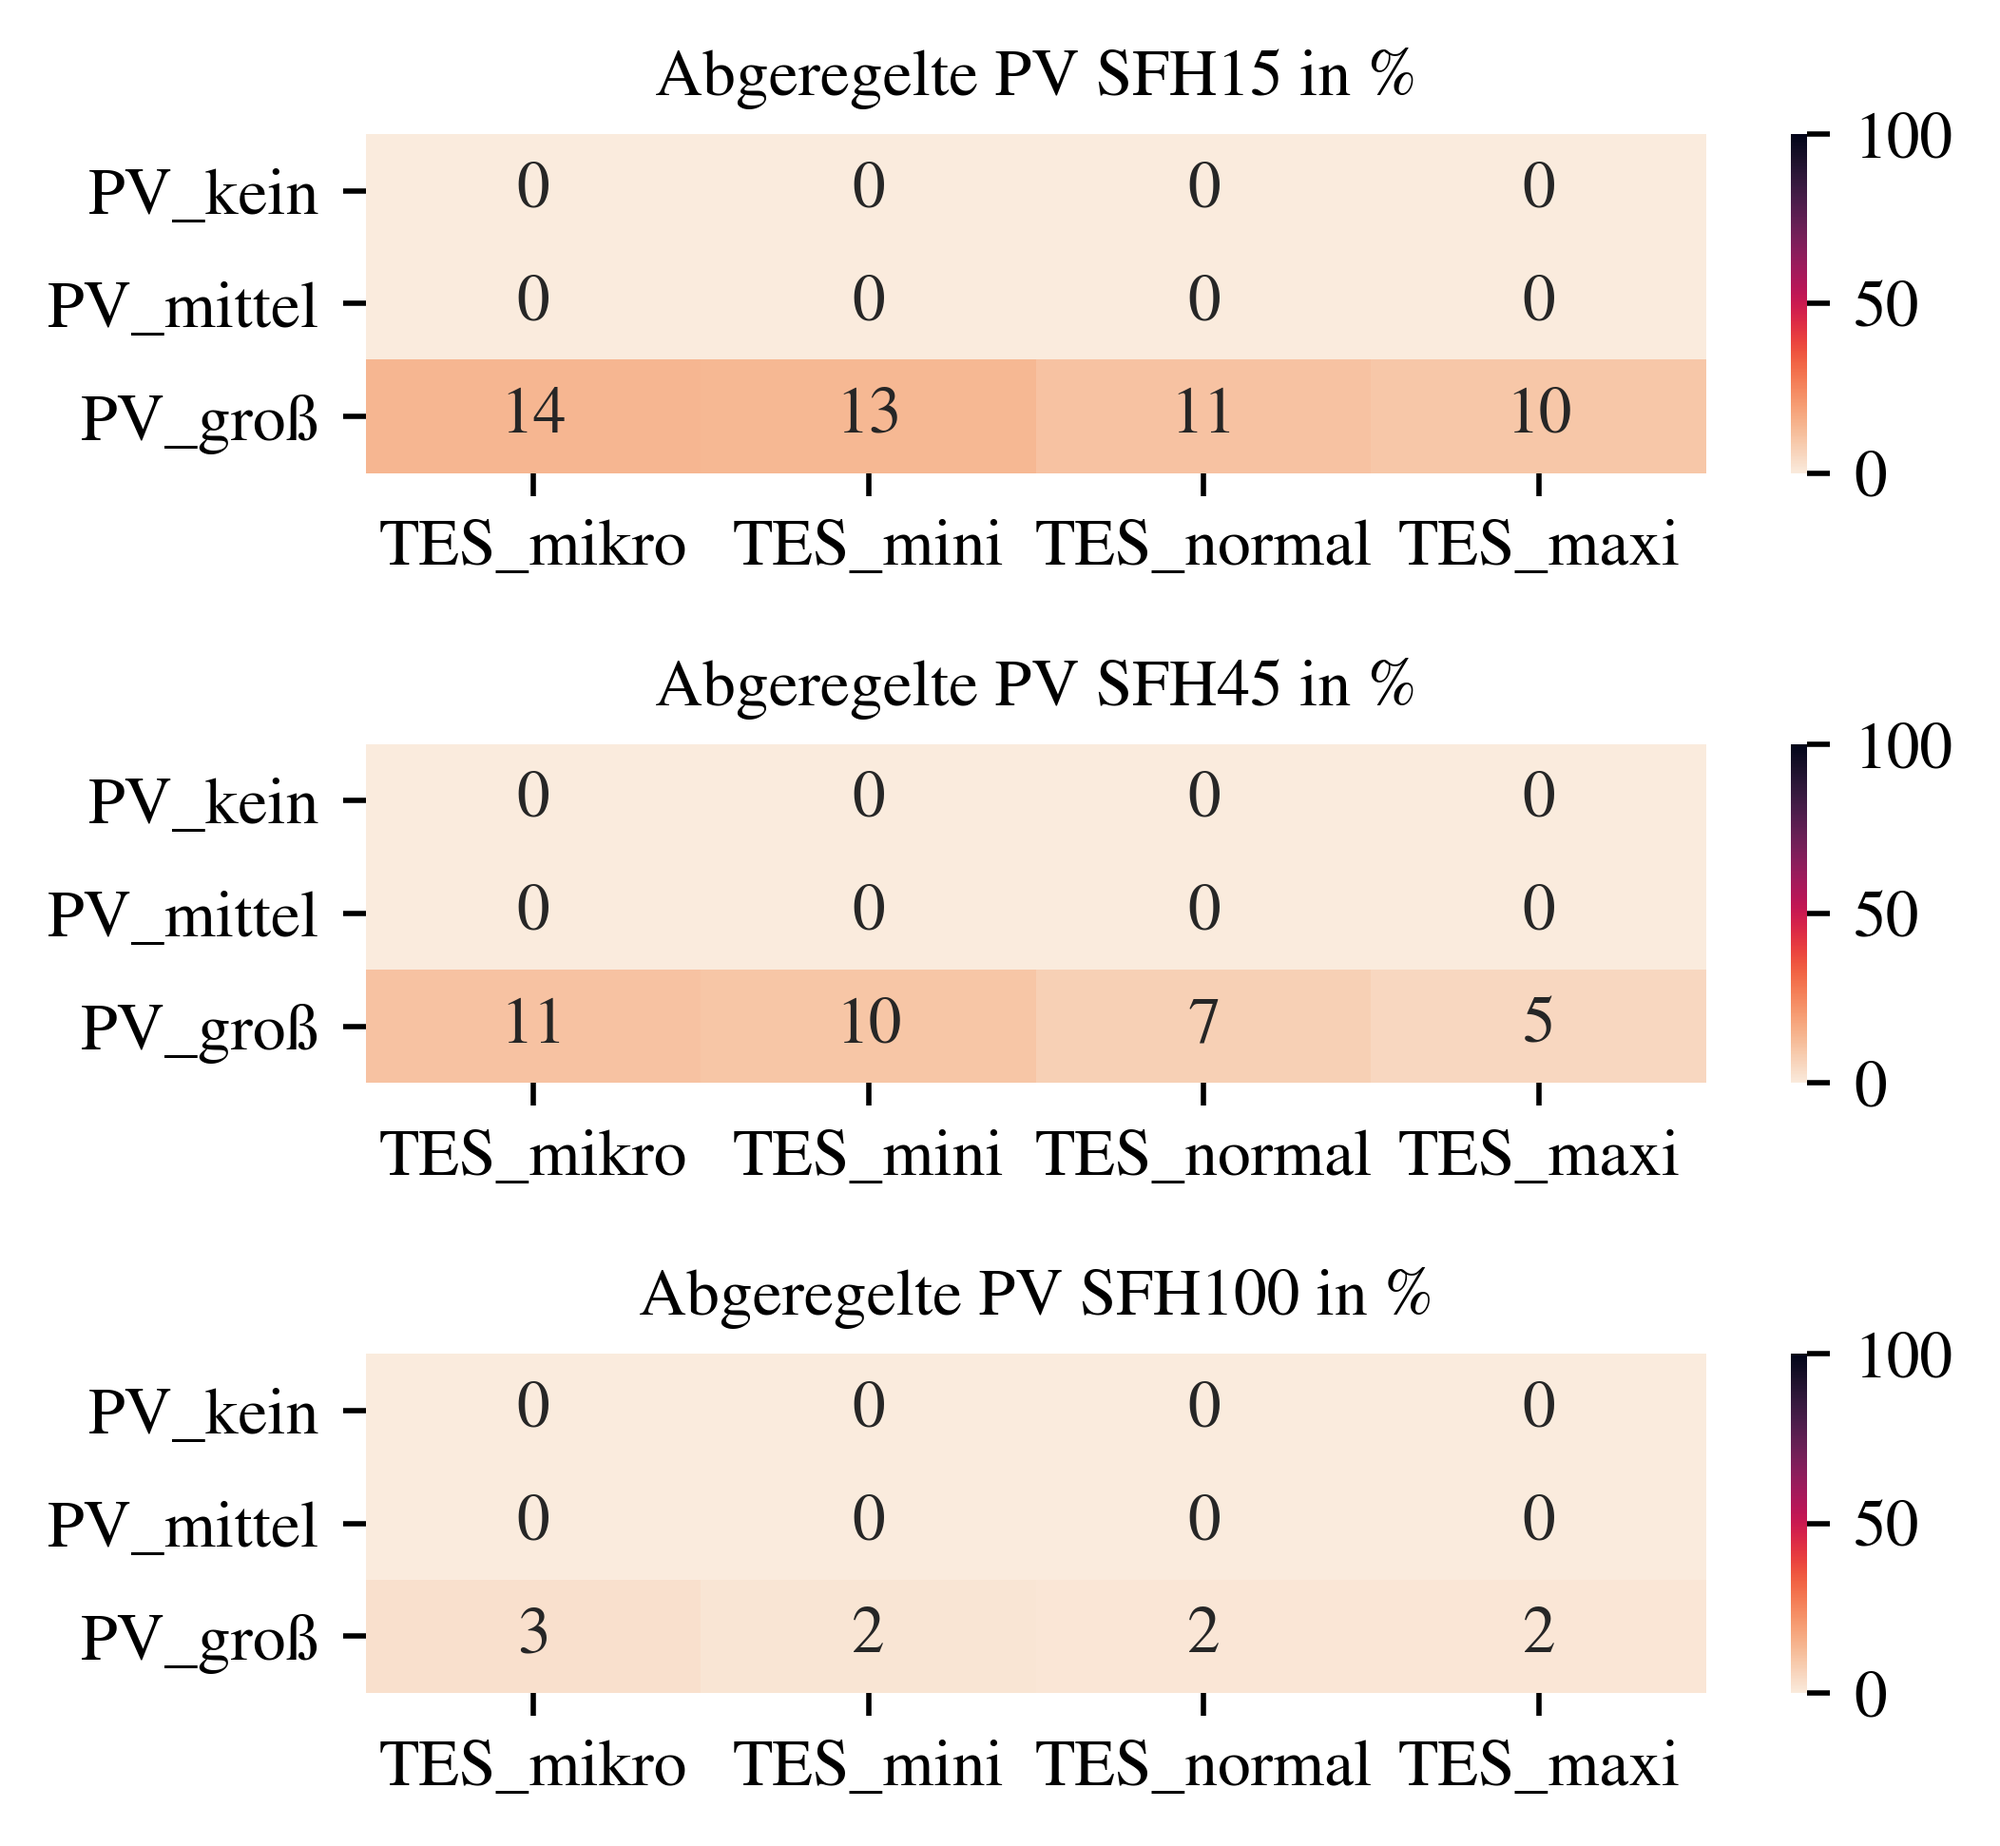
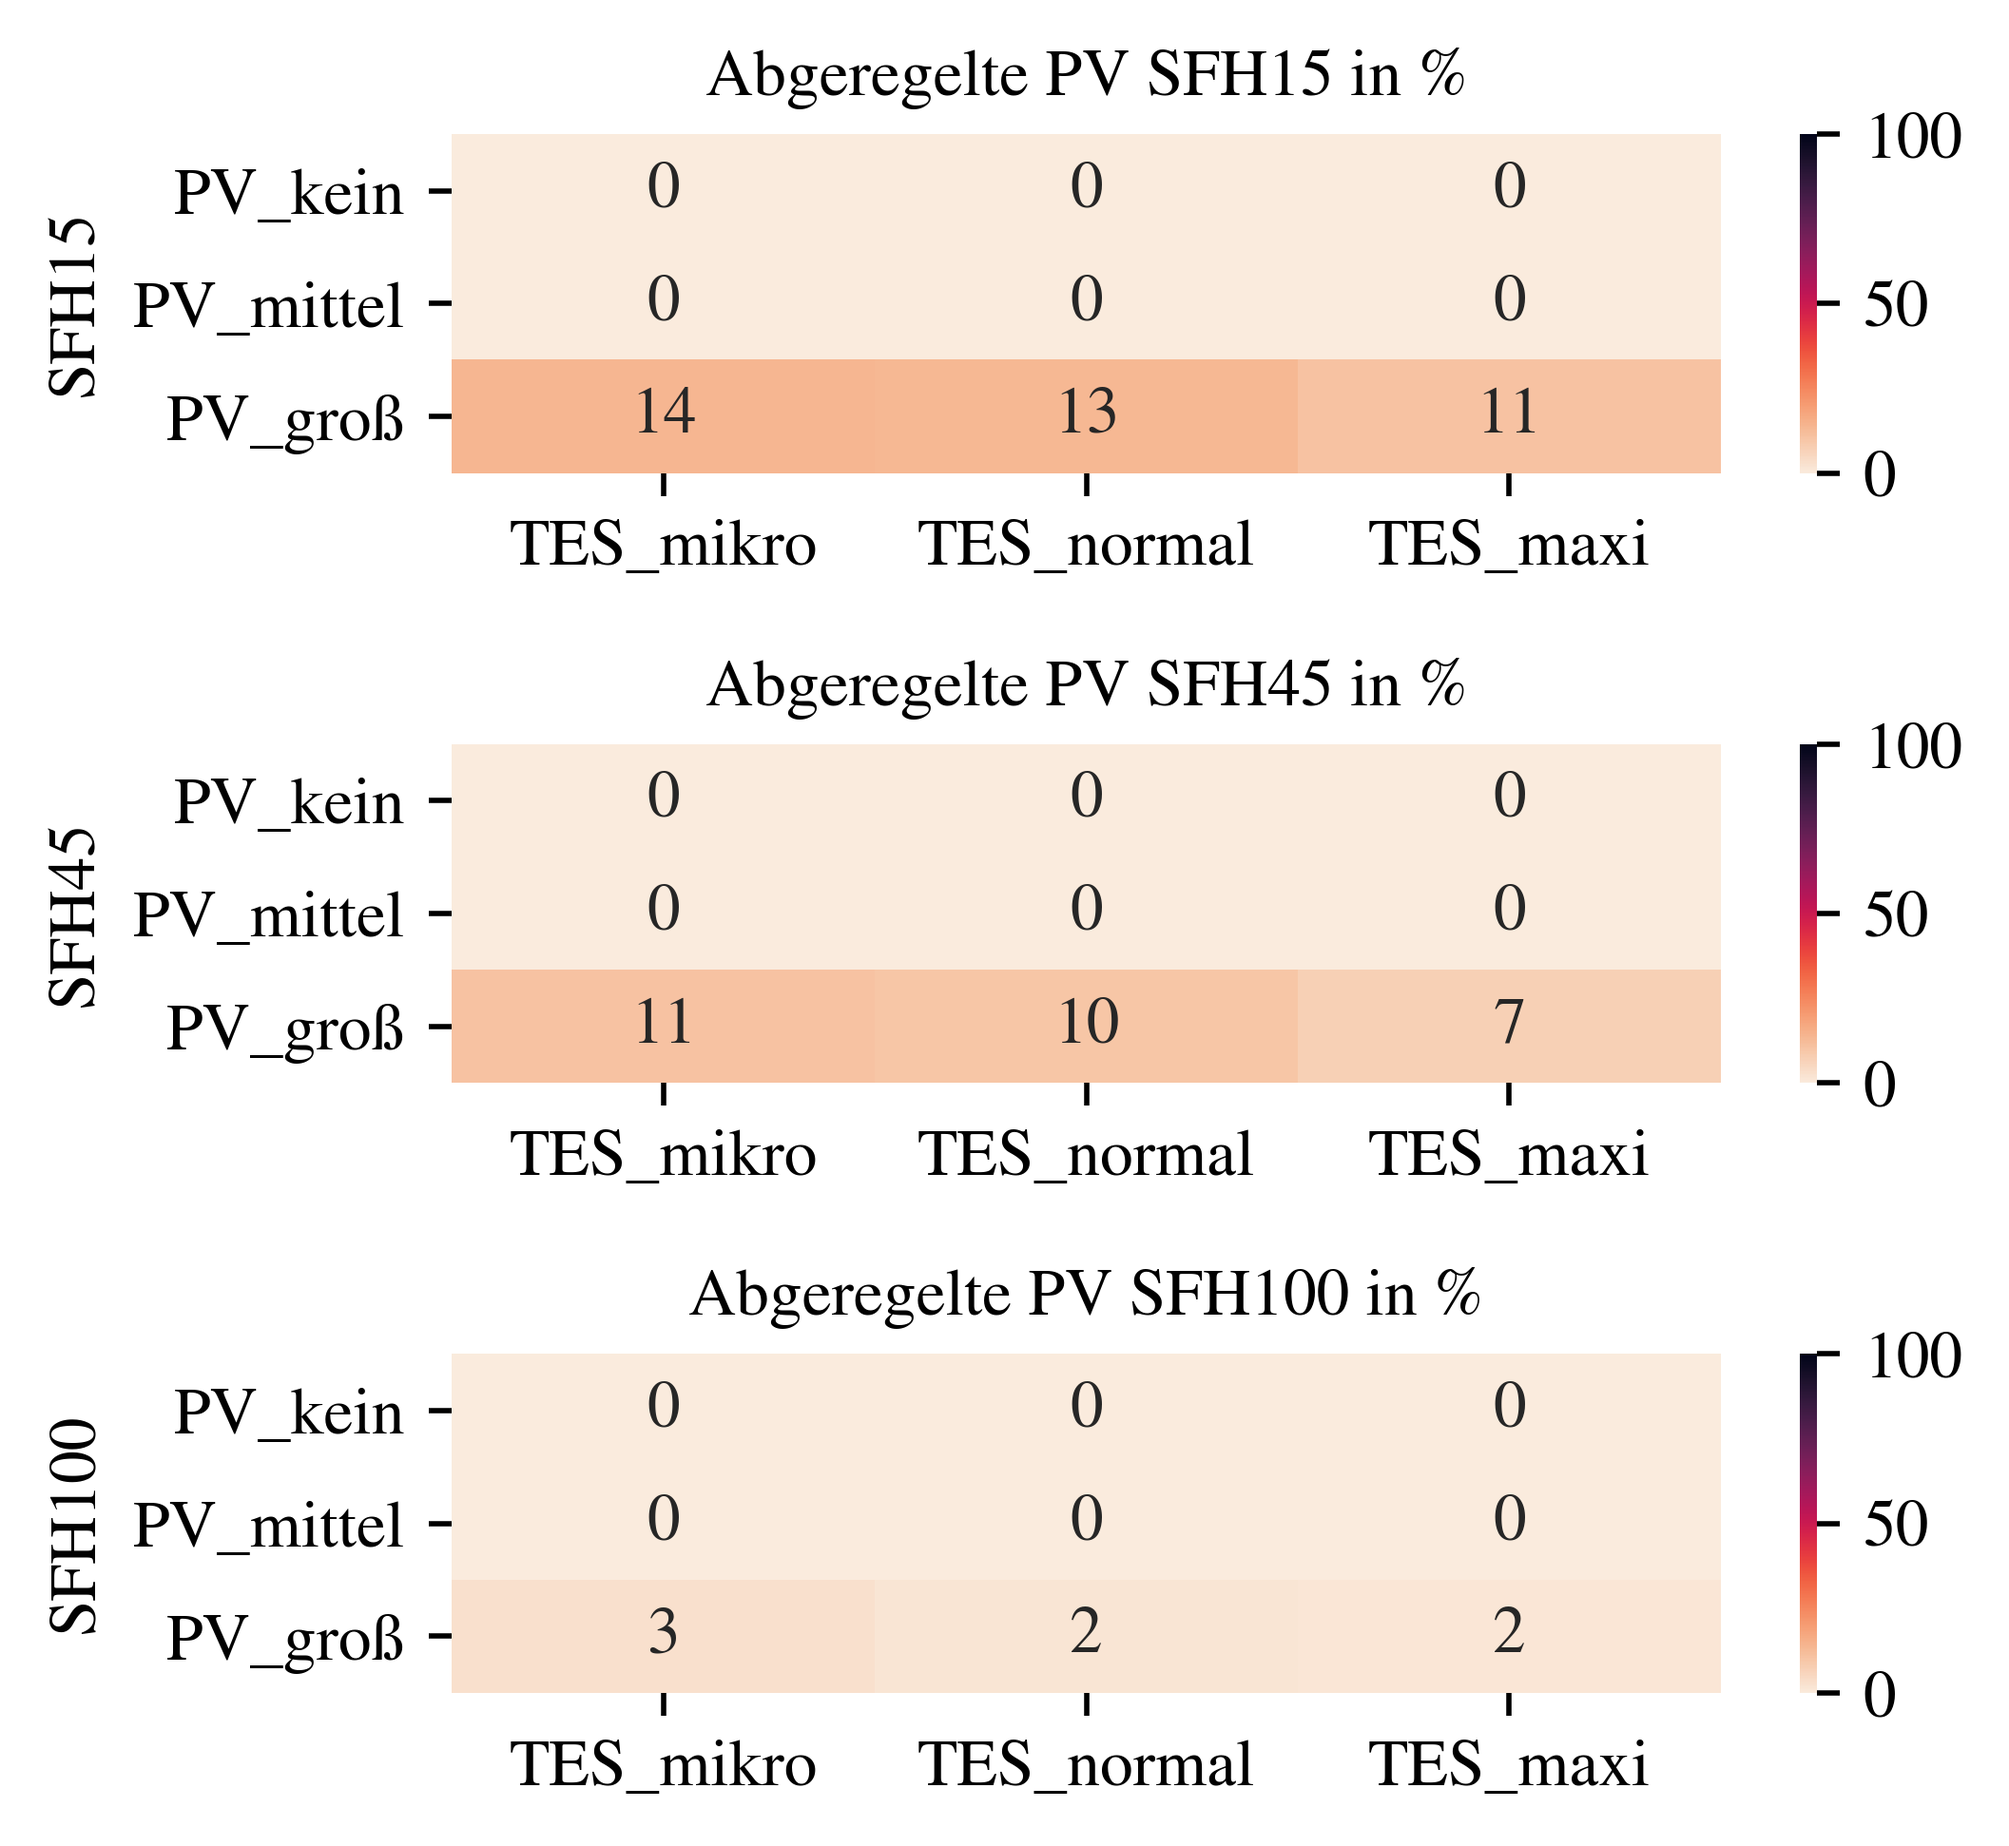
Final version with 3 TES but only one Building capacity 14kWh

diff --git a/src/tools/evaluation/Evaluation.py b/src/tools/evaluation/Evaluation.py
@@ -89,7 +89,7 @@ def calculate_outputdata(eva, scenarios, grid, save_fig_dir=None):
 
 def plot_heatmap_self_consumption_tes_to_pv(eva, scenario, net_name, save_fig_dir=None):
   pvs = ['PV_kein', 'PV_mittel', 'PV_groß']
-  tes = ['TES_mikro', 'TES_mini', 'TES_normal', 'TES_maxi']
+  tes = ['TES_mikro', 'TES_normal', 'TES_maxi']
   
   interp_sfh = {'A' : 'SFH15', 'B' : 'SFH45', 'C' : 'SFH100'}
   interp_pv  = {'0' : pvs[0], \
@@ -97,8 +97,7 @@ def plot_heatmap_self_consumption_tes_to_pv(eva, scenario, net_name, save_fig_di
                 '1' : pvs[2]}
   interp_tes = {'6' : tes[0], \
                 '7' : tes[1], \
-                '8' : tes[2], 
-                '9' : tes[3]}
+                '8' : tes[2] }
   
   df_sfh15 = pd.DataFrame(index=[pvs], columns=tes).fillna(0)
   df_sfh45 = pd.DataFrame(index=[pvs], columns=tes).fillna(0)
@@ -169,11 +168,11 @@ def plot_heatmap_self_consumption_tes_to_pv(eva, scenario, net_name, save_fig_di
   sns.heatmap(data=df_sfh45, vmax = vmax, vmin = vmin, cmap="rocket_r", annot=True, square=False, fmt=".0f", ax=axes[1])
   sns.heatmap(data=df_sfh100, vmax = vmax, vmin = vmin, cmap="rocket_r", annot=True, square=False, fmt=".0f", ax=axes[2])
   axes[0].set_title('Eigenverbrauchsgrad SFH15 in %')
-  axes[0].set(ylabel='', xlabel='')
+  axes[0].set(ylabel='SFH15', xlabel='')
   axes[1].set_title('Eigenverbrauchsgrad SFH45  in %')
-  axes[1].set(ylabel='', xlabel='')
+  axes[1].set(ylabel='SFH45', xlabel='')
   axes[2].set_title('Eigenverbrauchsgrad SFH100 in %')
-  axes[2].set(ylabel='', xlabel='')
+  axes[2].set(ylabel='SFH100', xlabel='')
   fig.tight_layout()
   
   if save_fig_dir is not None:
@@ -181,7 +180,7 @@ def plot_heatmap_self_consumption_tes_to_pv(eva, scenario, net_name, save_fig_di
 
 def plot_heatmap_self_sufficiency_tes_to_pv(eva, scenario, net_name, save_fig_dir=None):
   pvs = ['PV_kein', 'PV_mittel', 'PV_groß']
-  tes = ['TES_mikro', 'TES_mini', 'TES_normal', 'TES_maxi']
+  tes = ['TES_mikro', 'TES_normal', 'TES_maxi']
   
   interp_sfh = {'A' : 'SFH15', 'B' : 'SFH45', 'C' : 'SFH100'}
   interp_pv  = {'0' : pvs[0], \
@@ -189,8 +188,7 @@ def plot_heatmap_self_sufficiency_tes_to_pv(eva, scenario, net_name, save_fig_di
                 '1' : pvs[2]}
   interp_tes = {'6' : tes[0], \
                 '7' : tes[1], \
-                '8' : tes[2], 
-                '9' : tes[3]}
+                '8' : tes[2] }
   
   df_sfh15 = pd.DataFrame(index=[pvs], columns=tes).fillna(0)
   df_sfh45 = pd.DataFrame(index=[pvs], columns=tes).fillna(0)
@@ -265,11 +263,11 @@ def plot_heatmap_self_sufficiency_tes_to_pv(eva, scenario, net_name, save_fig_di
   sns.heatmap(data=df_sfh45, vmax = vmax, vmin = vmin, cmap="rocket_r", annot=True, square=False, fmt=".0f", ax=axes[1])
   sns.heatmap(data=df_sfh100, vmax = vmax, vmin = vmin, cmap="rocket_r", annot=True, square=False, fmt=".0f", ax=axes[2])
   axes[0].set_title('Autarkiegrad SFH15 in %')
-  axes[0].set(ylabel='', xlabel='')
+  axes[0].set(ylabel='SFH15', xlabel='')
   axes[1].set_title('Autarkiegrad SFH45  in %')
-  axes[1].set(ylabel='', xlabel='')
+  axes[1].set(ylabel='SFH45', xlabel='')
   axes[2].set_title('Autarkiegrad SFH100 in %')
-  axes[2].set(ylabel='', xlabel='')
+  axes[2].set(ylabel='SFH100', xlabel='')
   fig.tight_layout()
   
   if save_fig_dir is not None:
@@ -277,7 +275,7 @@ def plot_heatmap_self_sufficiency_tes_to_pv(eva, scenario, net_name, save_fig_di
 
 def plot_heatmap_curtailed_pv_tes_to_pv(eva, scenario, net_name, save_fig_dir=None):
   pvs = ['PV_kein', 'PV_mittel', 'PV_groß']
-  tes = ['TES_mikro', 'TES_mini', 'TES_normal', 'TES_maxi']
+  tes = ['TES_mikro', 'TES_normal', 'TES_maxi']
   
   interp_sfh = {'A' : 'SFH15', 'B' : 'SFH45', 'C' : 'SFH100'}
   interp_pv  = {'0' : pvs[0], \
@@ -285,8 +283,7 @@ def plot_heatmap_curtailed_pv_tes_to_pv(eva, scenario, net_name, save_fig_dir=No
                 '1' : pvs[2]}
   interp_tes = {'6' : tes[0], \
                 '7' : tes[1], \
-                '8' : tes[2], 
-                '9' : tes[3]}
+                '8' : tes[2] }
         
   df_sfh15 = pd.DataFrame(index=[pvs], columns=tes).fillna(0)
   df_sfh45 = pd.DataFrame(index=[pvs], columns=tes).fillna(0)
@@ -344,11 +341,11 @@ def plot_heatmap_curtailed_pv_tes_to_pv(eva, scenario, net_name, save_fig_dir=No
   sns.heatmap(data=df_sfh45, vmax = vmax, vmin = vmin, cmap="rocket_r", annot=True, square=False, fmt=".0f", ax=axes[1])
   sns.heatmap(data=df_sfh100, vmax = vmax, vmin = vmin, cmap="rocket_r", annot=True, square=False, fmt=".0f", ax=axes[2])
   axes[0].set_title('Abgeregelte PV SFH15 in %')
-  axes[0].set(ylabel='', xlabel='')
+  axes[0].set(ylabel='SFH15', xlabel='')
   axes[1].set_title('Abgeregelte PV SFH45 in %')
-  axes[1].set(ylabel='', xlabel='')
+  axes[1].set(ylabel='SFH45', xlabel='')
   axes[2].set_title('Abgeregelte PV SFH100 in %')
-  axes[2].set(ylabel='', xlabel='')
+  axes[2].set(ylabel='SFH100', xlabel='')
   fig.tight_layout()
   
   if save_fig_dir is not None:
@@ -356,7 +353,7 @@ def plot_heatmap_curtailed_pv_tes_to_pv(eva, scenario, net_name, save_fig_dir=No
 
 def plot_heatmap_curtailed_load_tes_to_pv(eva, scenario, net_name, save_fig_dir=None):
   pvs = ['PV_kein', 'PV_mittel', 'PV_groß']
-  tes = ['TES_mikro', 'TES_mini', 'TES_normal', 'TES_maxi']
+  tes = ['TES_mikro', 'TES_mini', 'TES_normal']
   
   interp_sfh = {'A' : 'SFH15', 'B' : 'SFH45', 'C' : 'SFH100'}
   interp_pv  = {'0' : pvs[0], \
@@ -364,8 +361,7 @@ def plot_heatmap_curtailed_load_tes_to_pv(eva, scenario, net_name, save_fig_dir=
                 '1' : pvs[2]}
   interp_tes = {'6' : tes[0], \
                 '7' : tes[1], \
-                '8' : tes[2], 
-                '9' : tes[3]}
+                '8' : tes[2] }
         
   df_sfh15 = pd.DataFrame(index=[pvs], columns=tes).fillna(0)
   df_sfh45 = pd.DataFrame(index=[pvs], columns=tes).fillna(0)
@@ -432,11 +428,11 @@ def plot_heatmap_curtailed_load_tes_to_pv(eva, scenario, net_name, save_fig_dir=
   sns.heatmap(data=df_sfh45, vmax = vmax, vmin = vmin, cmap="rocket_r", annot=True, square=False, fmt=".0f", ax=axes[1])
   sns.heatmap(data=df_sfh100, vmax = vmax, vmin = vmin, cmap="rocket_r", annot=True, square=False, fmt=".0f", ax=axes[2])
   axes[0].set_title('Abgeregelte Last SFH15 in %')
-  axes[0].set(ylabel='', xlabel='')
+  axes[0].set(ylabel='SFH15', xlabel='')
   axes[1].set_title('Abgeregelte Last SFH45 in %')
-  axes[1].set(ylabel='', xlabel='')
+  axes[1].set(ylabel='SFH45', xlabel='')
   axes[2].set_title('Abgeregelte Last SFH100 in %')
-  axes[2].set(ylabel='', xlabel='')
+  axes[2].set(ylabel='SFH100', xlabel='')
   fig.tight_layout()
   
   if save_fig_dir is not None:
@@ -444,7 +440,7 @@ def plot_heatmap_curtailed_load_tes_to_pv(eva, scenario, net_name, save_fig_dir=
 
 def plot_heatmap_mean_trafo_load_tes_to_pv(eva, scenario, net_name, save_fig_dir=None):
   pvs = ['PV_kein', 'PV_mittel', 'PV_groß']
-  tes = ['TES_mikro', 'TES_mini', 'TES_normal', 'TES_maxi']
+  tes = ['TES_mikro', 'TES_normal', 'TES_maxi']
   
   interp_sfh = {'A' : 'SFH15', 'B' : 'SFH45', 'C' : 'SFH100'}
   interp_pv  = {'0' : pvs[0], \
@@ -452,8 +448,7 @@ def plot_heatmap_mean_trafo_load_tes_to_pv(eva, scenario, net_name, save_fig_dir
                 '1' : pvs[2]}
   interp_tes = {'6' : tes[0], \
                 '7' : tes[1], \
-                '8' : tes[2], 
-                '9' : tes[3]}
+                '8' : tes[2] }
   
   evaluation_criteria = 'tl'     #trafo_load
   
@@ -509,11 +504,11 @@ def plot_heatmap_mean_trafo_load_tes_to_pv(eva, scenario, net_name, save_fig_dir
   sns.heatmap(data=df_sfh45, vmax = vmax, vmin = vmin, cmap="rocket_r", annot=True, square=False, fmt=".0f", ax=axes[1])
   sns.heatmap(data=df_sfh100, vmax = vmax, vmin = vmin, cmap="rocket_r", annot=True, square=False, fmt=".0f", ax=axes[2])
   axes[0].set_title('mittlere Trafo_Last SFH15 in %')
-  axes[0].set(ylabel='', xlabel='')
+  axes[0].set(ylabel='SFH15', xlabel='')
   axes[1].set_title('mittlere Trafo_Last SFH45 in %')
-  axes[1].set(ylabel='', xlabel='')
+  axes[1].set(ylabel='SFH45', xlabel='')
   axes[2].set_title('mittlere Trafo_Last SFH100 in %')
-  axes[2].set(ylabel='', xlabel='')
+  axes[2].set(ylabel='SFH100', xlabel='')
   fig.tight_layout()
   
   if save_fig_dir is not None:

diff --git a/src/main_EVA.py b/src/main_EVA.py
@@ -106,14 +106,23 @@ for grid in ['n7','n8','n9','n10','n11']:
 
 # --- Power and Components loading --- #
 #scenarios = [C008010, 'C106010', 'C107010', 'C108010']
-
+'''
 scenarios = ['A006010', 'A306010', 'A106010', 'A007010', 'A307010', 'A107010', \
              'A008010', 'A308010', 'A108010', 'A009010', 'A309010', 'A109010', \
              'B006010', 'B306010', 'B106010', 'B007010', 'B307010', 'B107010', \
              'B008010', 'B308010', 'B108010', 'B009010', 'B309010', 'B109010', \
              'C006010', 'C306010', 'C106010', 'C007010', 'C307010', 'C107010', \
              'C008010', 'C308010', 'C108010', 'C009010', 'C309010', 'C109010']
+'''
 
+scenarios = ['A006010', 'A306010', 'A106010', 'A007010', 'A307010', 'A107010', \
+             'A008010', 'A308010', 'A108010', \
+             'B006010', 'B306010', 'B106010', 'B007010', 'B307010', 'B107010', \
+             'B008010', 'B308010', 'B108010', \
+             'C006010', 'C306010', 'C106010', 'C007010', 'C307010', 'C107010', \
+             'C008010', 'C308010', 'C108010' ]
+
+  
 #eva = load_scenario_data(scenarios, grids=['n8'], seasons=['winter'])
 #evaluation.plot_residualload_grid_issues_subplot_overall_eva_3_plots(eva1=eva['sC107010n8winter'], eva2=eva['sC108010n8winter'], eva3=eva['sC109010n8winter'], save_fig_dir=save_fig_dir+ 'res_grid_sfh100_winter_all_tes_3plots.png')
 #evaluation.plot_residualload_grid_issues_subplot_overall_eva_3_plots(eva1=eva['sB106010n8winter'], eva2=eva['sB107010n8winter'], eva3=eva['sB108010n8winter'], save_fig_dir=save_fig_dir+ 'res_grid_sfh45_winter_all_tes_3plots.png')

diff --git a/src/tools/controller/HPstorages.py b/src/tools/controller/HPstorages.py
@@ -49,7 +49,7 @@ class HPstorages():
         # default
         else :
           self.hp_stor_para['HP_max_p_kw'] = control_parameter['HP_max_p_kw'], #0.012, # in MW
-          
+        
         ## choose size of tes due to hp scenario digit
         # tes_small
         if (grid.scenario[3] == 6) :
